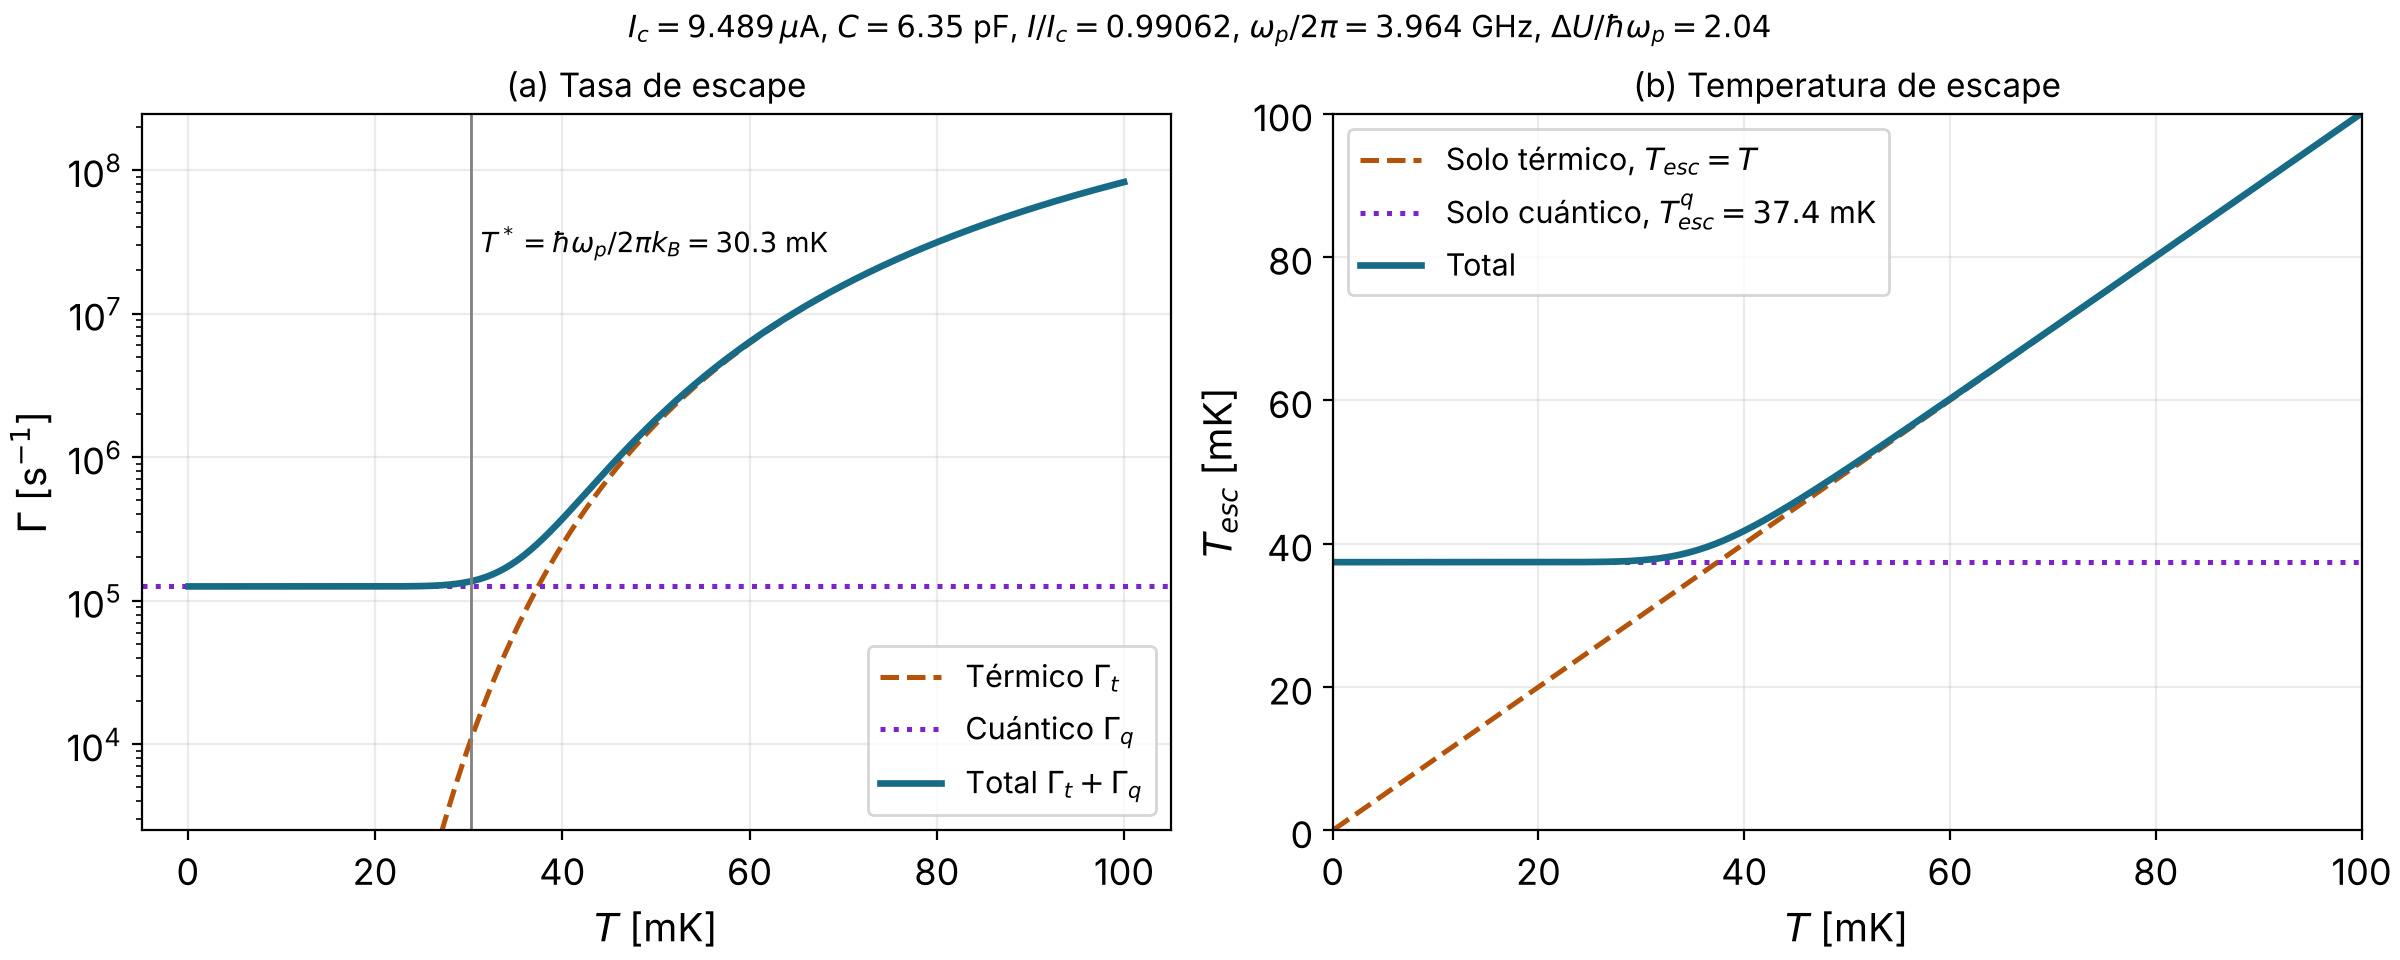
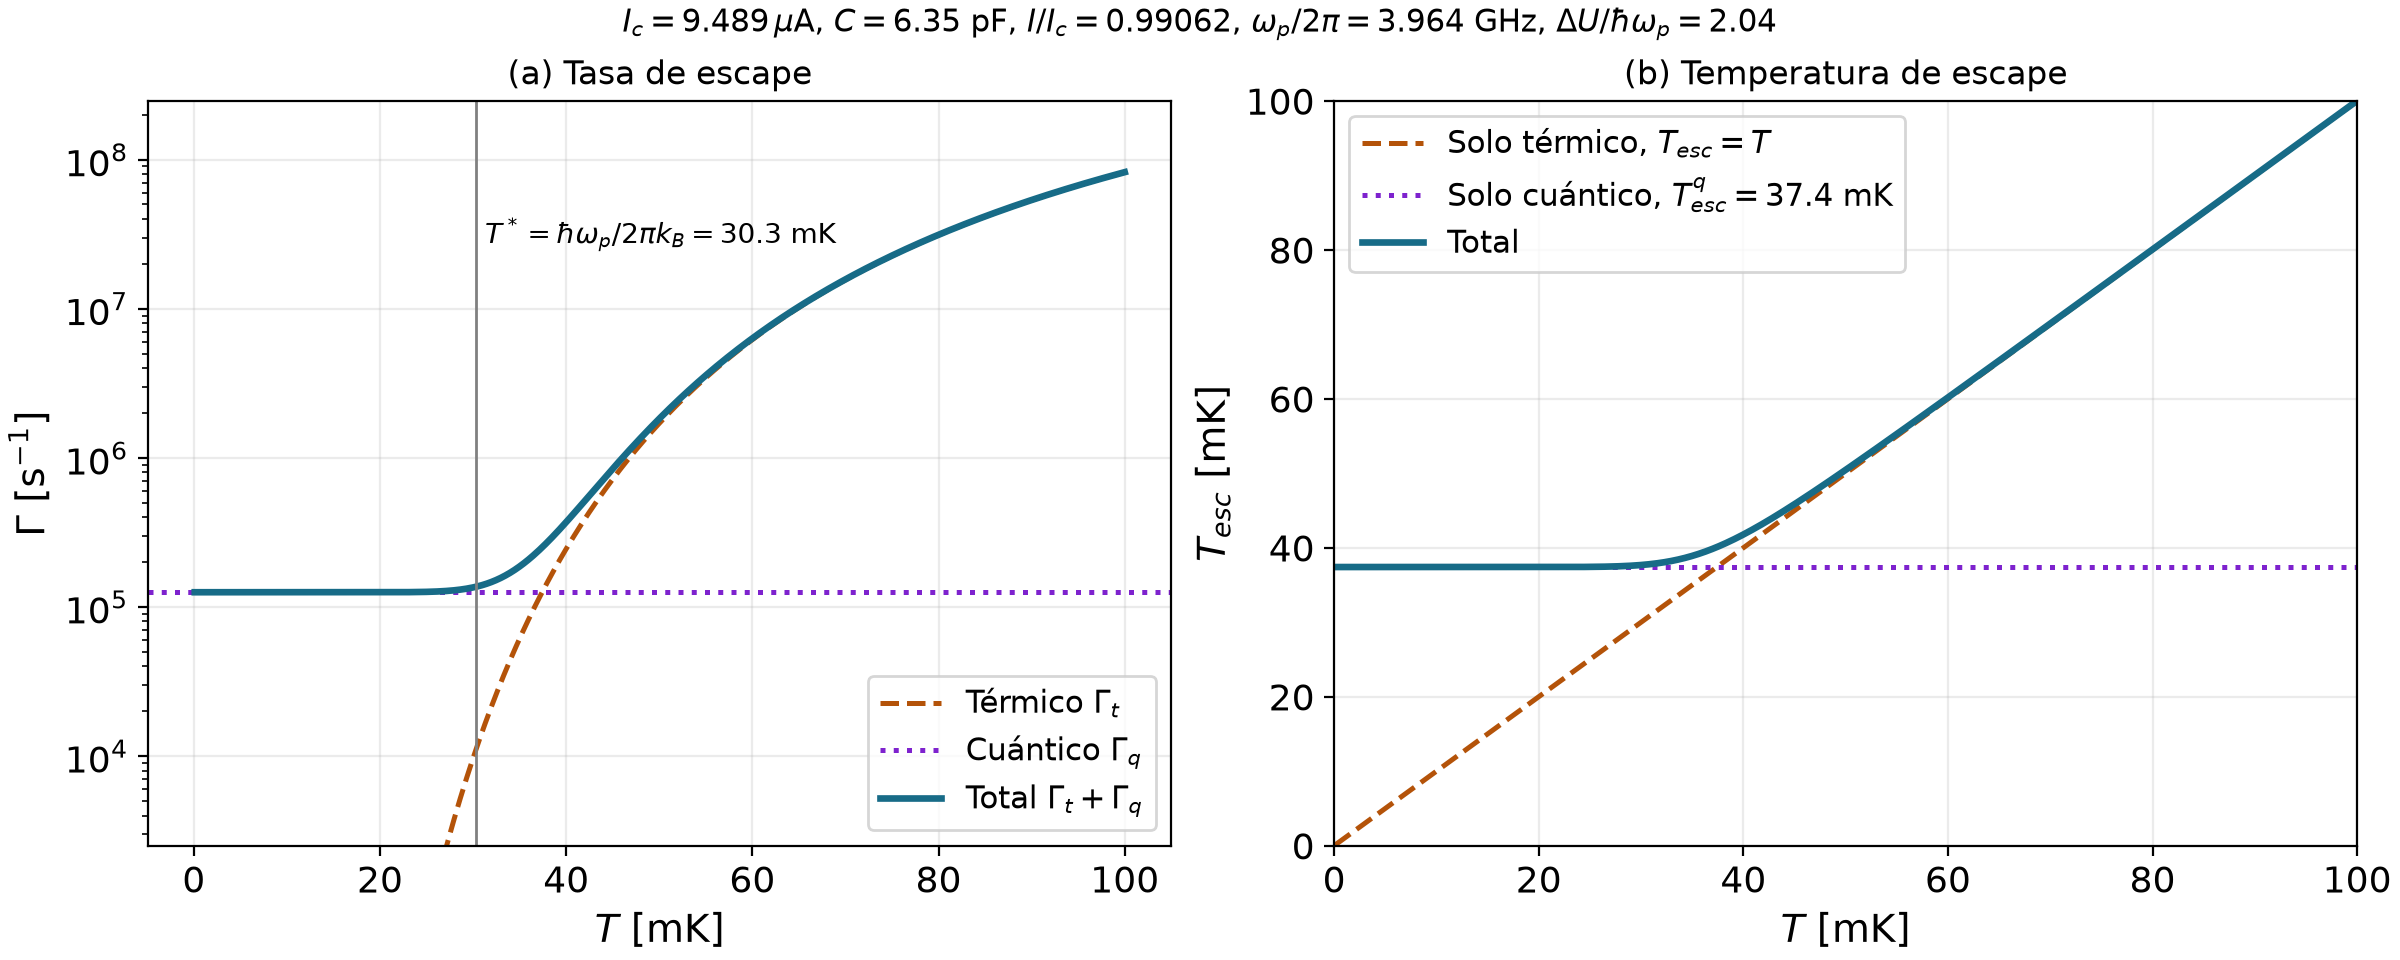
Resultados
Se ejecutaron los códigos de nuevo para validar los resultados.

diff --git a/resultados/escape/tabla_parametros.tex b/resultados/escape/tabla_parametros.tex
@@ -21,7 +21,6 @@
         $\Gamma_q$ & $1.26\times10^{5}\ \mathrm{s^{-1}}$ \\
         $T_{esc}^{q}$ (sin disipación) & $37.4\ \mathrm{mK}$ \\
         $T^{*}=\hbar\omega_p/2\pi k_B$ & $30.3\ \mathrm{mK}$ \\
-        $T_{esc}^{q}$ con $Q=30$ & $35.9\ \mathrm{mK}$ \\
         \hline
     \end{tabular}
 \end{table}
